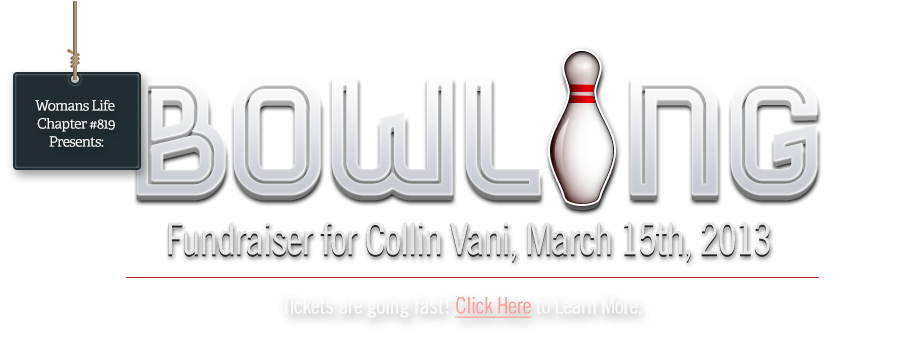
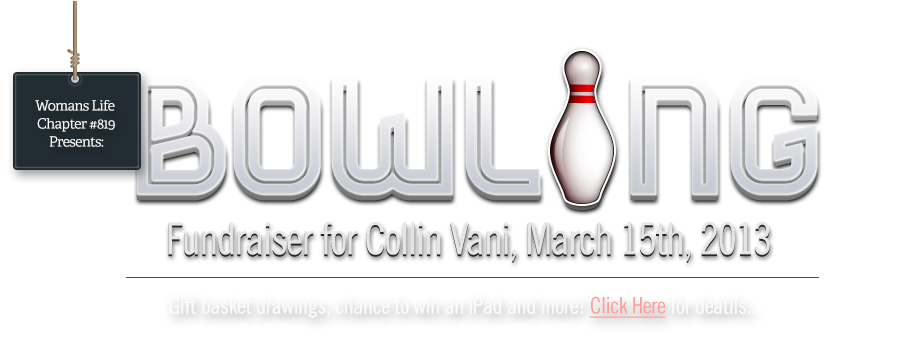
updated bowling ad

Changed region(s): [[0.6533, 0.8504, 0.84, 0.9384], [0.4978, 0.8504, 0.5911, 0.9384], [0.1867, 0.8798, 0.3111, 0.9384]]

diff --git a/index.html b/index.html
@@ -75,8 +75,8 @@
 		  <!-- The container is used to define the width of the slideshow -->
 		  <div class="container">
 		    <div id="slides">
-		      <a href="#valentines"><img src="/images/header-valentines-ty.png"></a>
 		      <a href="#bowling"><img src="/images/header-bowling.png"></a>
+		      <a href="#valentines"><img src="/images/header-valentines-ty.png"></a>
 		    </div>
 		  </div>
 		  <!-- End SlidesJS Required: Start Slides -->
@@ -130,32 +130,32 @@
 					<h2 class="white">News &amp Events</h2>
 				</span>
 
-			<section id="valentines">
+<!-- 			<section id="valentines">
 				<img src="http://f.cl.ly/items/0f1t0L3b3d1e382w1u1p/Untitled-3.png">
 				<span class="title">Valentines for Vani, Teen Dance</span>
 				<span class="date">February 15, 2013 at 8PM</span>
 				Valentines for Vani is a Teen Dance (14-18 yrs old) supporting Collin's battle with Cancer. Featuring DJ Illee, 50/50 Raffle, Food Specials, with all proceeds going to Collin's family. Dance is from 8pm - 12am at the Angry Bull on 5078 Lapeer Ave., Kimball, MI (810) 966-9098 Cost is $10 at the door. (<a href="http://c.gr4m.com/image/1e423P1r0a1C" target="_blank">View Flyer</a>)
 				<br /><br />
 				<div class="fb-like" data-href="http://courageforcollin.com/#valentines" data-send="true" data-layout="button_count" data-width="300" data-show-faces="true" og:image="http://f.cl.ly/items/0f1t0L3b3d1e382w1u1p/Untitled-3.png"></div>
-			</section>
+			</section> -->
 
 			<section id="bowling">
 				<img src="http://f.cl.ly/items/0m2x1m2v1Z1C0f0Q132f/Untitled-3.png">
 				<span class="title">Bowling for Collin</span>
 				<span class="date">March 15, 2013 at 7PM</span>
-				<b>Update: There are only 20 bowling spots left, call today!</b>
+				<div class="fb-like" data-href="http://courageforcollin.com/#bowling" data-send="true" data-layout="button_count" data-width="300" data-show-faces="true"></div><br/><br/>
+				<b>Bowlwing spots are full! However, you can still join in the baseket raffles, buy tickets to win iPad, and good times supporting Collin.</b>
+				<br/><br/>
 				Woman's Life Chapter 819 Bowling Fundraiser for Collin Vani. Bowling fundraiser to raise money to assist Collin's parents with his medical expenses. Located at Port Huron Lanes, 1718 Hancock St., Port Huron, MI 48060. $20 includes 2 games, shoes and 6 auction tickets. Registration Starts at 6:30. To Register Call Lisa Bales at (810) 434-3322 or Jennifer James at (810) 532-0628 (<a href="http://c.gr4m.com/image/083a1A0B361a" target="_blank">View Bowling Flyer</a>)
-				<br /><br />
-				<div class="fb-like" data-href="http://courageforcollin.com/#bowling" data-send="true" data-layout="button_count" data-width="300" data-show-faces="true"></div>
 			</section>
 
 			<section id="blacktie">
 				<img src="http://f.cl.ly/items/1M1Z3i032t2U2V2P2y33/png.png">
 				<span class="title">Black Tie Affair, Dinner &amp Fashion Show</span>
 				<span class="date">April 20, 2013 at 6PM</span>
-				There will be a black tie fundraiser benefiting Collin on Saturday April 20, starting at 6PM at McMorran Pavillion. Tickets are $20 per person. Dinner, DJ, 50/50 Raffle, Cash Bar and more. For ticket information call Sandy at (810) 941-7620 or purchase tickets at Port Huron High School office (810) 984-2611
-				<br /><br />
 				<div class="fb-like" data-href="http://courageforcollin.com/#blacktie" data-send="true" data-layout="button_count" data-width="300" data-show-faces="true"></div>
+				<br /><br />
+				There will be a black tie fundraiser benefiting Collin on Saturday April 20, starting at 6PM at McMorran Pavillion. Tickets are $20 per person. Dinner, DJ, 50/50 Raffle, Cash Bar and more. For ticket information call Sandy at (810) 941-7620 or purchase tickets at Port Huron High School office (810) 984-2611
 			</section>
 		</div>
 		</div>
